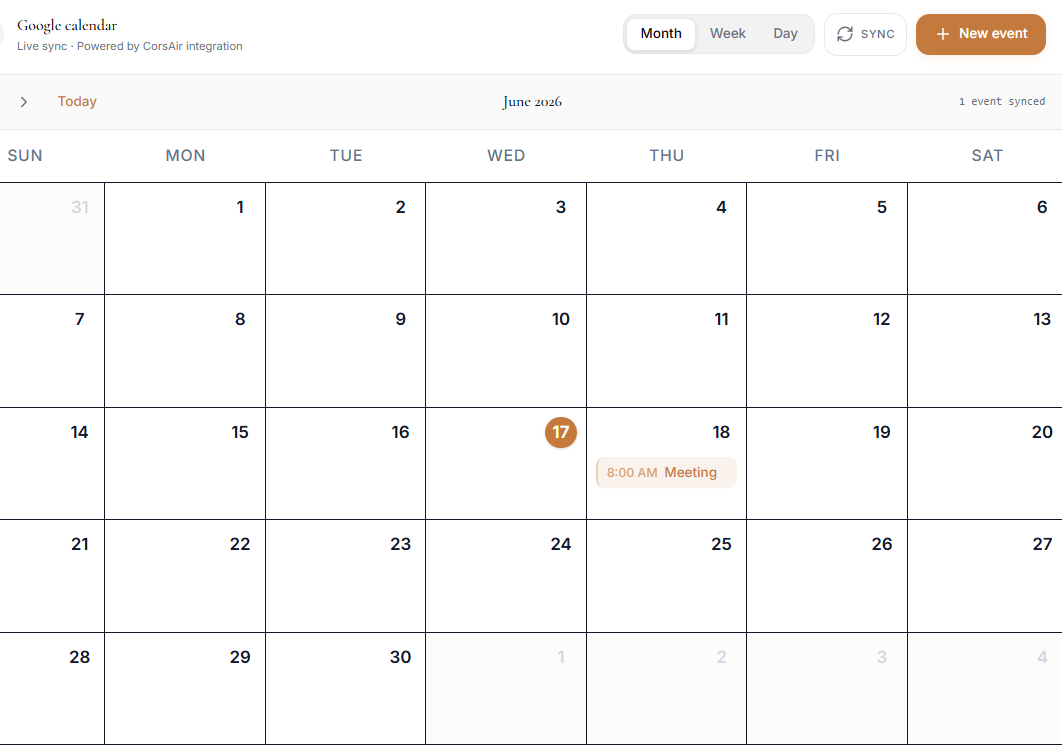
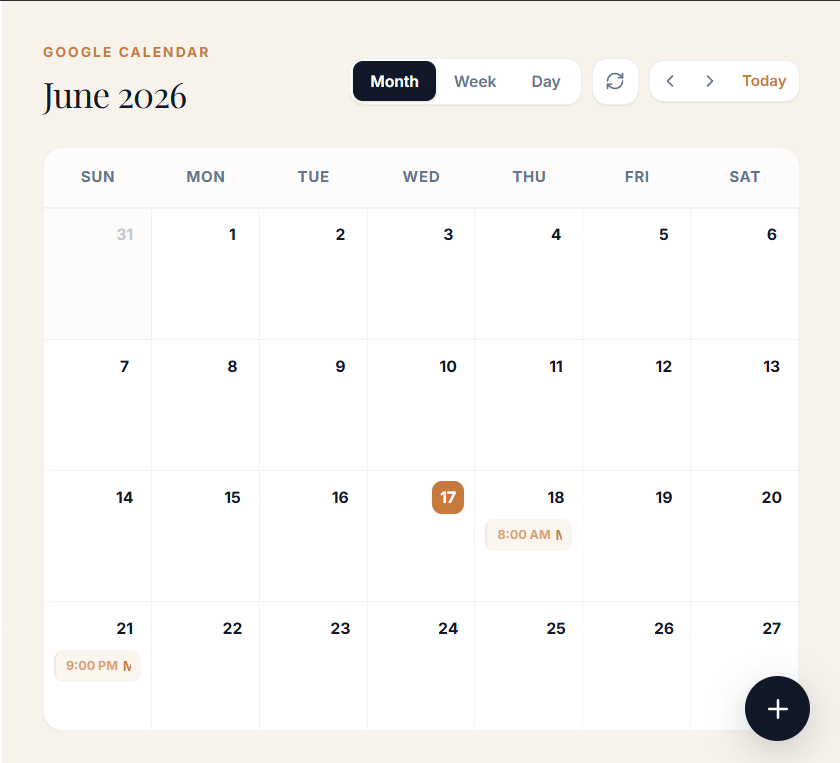
removed unnecessry files

diff --git a/src/components/landing/Footer.tsx b/src/components/landing/Footer.tsx
@@ -57,7 +57,7 @@ export function Footer() {
 
   return (
     <footer className="relative w-full overflow-hidden select-none bg-[#F7F3EC] border-t border-[rgba(17,24,39,0.06)] text-[#111827] font-sans">
-      
+
       {/* ── 1. Subtle Warm Radial Gradient Atmosphere ── */}
       <div className="absolute inset-0 pointer-events-none z-0">
         {/* Soft amber lights */}
@@ -78,10 +78,10 @@ export function Footer() {
       </div>
 
       <div className="relative mx-auto max-w-[1400px] px-6 sm:px-8 md:px-12 z-10">
-        
+
         {/* ── 3. TOP CTA AREA (Centered, Spaced Luxuriously) ── */}
         <div className="pt-[120px] pb-16 flex flex-col items-center text-center">
-          
+
           {/* Centered Small Label */}
           <motion.div
             initial={{ opacity: 0, y: 10 }}
@@ -144,7 +144,7 @@ export function Footer() {
 
         {/* ── 4. FOUR-COLUMN SITE GRID (12 Columns) ── */}
         <div className="grid grid-cols-1 md:grid-cols-12 gap-y-12 md:gap-x-8 pb-16">
-          
+
           {/* Column 1: Brand (Span 4) */}
           <div className="md:col-span-4 space-y-6 text-left">
             <Link href="/" className="font-serif text-[24px] text-[#111827] font-semibold tracking-[-0.02em] hover:opacity-80 transition-opacity">
@@ -170,14 +170,14 @@ export function Footer() {
             <div className="space-y-1 pt-2 text-[13.5px] text-[#64748B]">
               <div className="flex items-center gap-1.5">
                 <span className="font-medium text-[#111827]">Email:</span>
-                <a href="mailto:[email redacted]" className="hover:text-[#C67B3D] hover:underline underline-offset-4 transition-colors">
-                  [email redacted]
+                <a href="mailto:[email redacted]" className="hover:text-[#C67B3D] hover:underline underline-offset-4 transition-colors">
+                  [email redacted]
                 </a>
               </div>
               <div className="flex items-center gap-1.5">
                 <span className="font-medium text-[#111827]">Support:</span>
-                <a href="mailto:[email redacted]" className="hover:text-[#C67B3D] hover:underline underline-offset-4 transition-colors">
-                  [email redacted]
+                <a href="mailto:[email redacted]" className="hover:text-[#C67B3D] hover:underline underline-offset-4 transition-colors">
+                  [email redacted]
                 </a>
               </div>
             </div>
@@ -265,7 +265,7 @@ export function Footer() {
           <div className="text-[13px] text-[#64748B]">
             Follow our journey towards a calmer workspace.
           </div>
-          
+
           <div className="flex gap-4">
             {socials.map((social) => {
               return (
@@ -308,7 +308,7 @@ export function Footer() {
 
         {/* ── 6. BOTTOM BAR (Luxurious whitespace & alignment) ── */}
         <div className="pt-8 pb-[80px] flex flex-col sm:flex-row justify-between items-center gap-6 text-[13.5px] text-[#64748B]">
-          
+
           {/* Left copyright */}
           <div>
             &copy; {currentYear} Zentra. All rights reserved.
@@ -322,7 +322,7 @@ export function Footer() {
           {/* Right version & operational status */}
           <div className="flex items-center gap-5">
             <span>v1.0.0</span>
-            
+
             {/* Pulsing Status Dot */}
             <div className="flex items-center gap-1.5 bg-[#5A6D56]/8 border border-[#5A6D56]/20 px-2.5 py-1 rounded-full text-[11px] font-semibold text-[#5A6D56]">
               <span className="relative flex h-1.5 w-1.5">

diff --git a/src/components/contact/ContactClient.tsx b/src/components/contact/ContactClient.tsx
@@ -49,7 +49,7 @@ export function ContactClient({ user }: ContactClientProps) {
 
       {/* Hero Content */}
       <section className="pt-32 pb-24 px-6 max-w-6xl mx-auto w-full z-10 grid grid-cols-1 lg:grid-cols-12 gap-16 items-start">
-        
+
         {/* Left pane: Details (Span 5) */}
         <div className="lg:col-span-5 space-y-6 text-left">
           <div className="inline-flex items-center gap-1.5 px-3 py-1 rounded-full bg-white border border-[rgba(198,123,61,0.1)] shadow-xs">
@@ -71,7 +71,7 @@ export function ContactClient({ user }: ContactClientProps) {
               </div>
               <div>
                 <p className="font-semibold text-[#111827]">General inquiries</p>
-                <a href="mailto:[email redacted]" className="text-[#64748B] hover:text-[#C67B3D] transition-colors">[email redacted]</a>
+                <a href="mailto:[email redacted]" className="text-[#64748B] hover:text-[#C67B3D] transition-colors">[email redacted]</a>
               </div>
             </div>
 
@@ -81,7 +81,7 @@ export function ContactClient({ user }: ContactClientProps) {
               </div>
               <div>
                 <p className="font-semibold text-[#111827]">Technical Support</p>
-                <a href="mailto:[email redacted]" className="text-[#64748B] hover:text-[#C67B3D] transition-colors">[email redacted]</a>
+                <a href="mailto:[email redacted]" className="text-[#64748B] hover:text-[#C67B3D] transition-colors">[email redacted]</a>
               </div>
             </div>
           </div>
@@ -96,7 +96,7 @@ export function ContactClient({ user }: ContactClientProps) {
           className="lg:col-span-7 p-8 sm:p-10 rounded-[28px] border border-[rgba(198,123,61,0.15)] shadow-[0_20px_50px_rgba(0,0,0,0.04)] text-left w-full"
         >
           <form onSubmit={handleSubmit} className="space-y-6">
-            
+
             {/* Name input */}
             <div className="space-y-2">
               <label className="text-[12px] font-bold text-[#111827] uppercase tracking-wider block">Your Name</label>

diff --git a/src/components/landing/ProductShowcase.tsx b/src/components/landing/ProductShowcase.tsx
@@ -101,7 +101,7 @@ export function ProductShowcase() {
                       </div>
                       <div className="text-left">
                         <p className="text-[12px] font-semibold text-[#111827]">Arghya Halder</p>
-                        <p className="text-[10px] text-[#5F6B7A]">[email redacted]</p>
+                        <p className="text-[10px] text-[#5F6B7A]">[email redacted]</p>
                       </div>
                     </div>
                   </div>
@@ -130,8 +130,8 @@ export function ProductShowcase() {
                             <div
                               key={i}
                               className={`p-3.5 rounded-xl border transition-all cursor-pointer text-left ${msg.unread
-                                  ? "bg-white border-[#C1783F]/20 shadow-sm"
-                                  : "bg-white/40 border-[rgba(17,24,39,0.04)] hover:bg-white"
+                                ? "bg-white border-[#C1783F]/20 shadow-sm"
+                                : "bg-white/40 border-[rgba(17,24,39,0.04)] hover:bg-white"
                                 }`}
                             >
                               <div className="flex justify-between items-start">

diff --git a/app/careers/page.tsx b/app/careers/page.tsx
@@ -71,7 +71,7 @@ export default async function CareersPage() {
                   <h3 className="text-[20px] font-serif font-bold text-[#111827]">{r.title}</h3>
                   <span className="text-[12px] font-bold text-[#C67B3D] uppercase tracking-wider">{r.dept}</span>
                 </div>
-                
+
                 <div className="flex flex-wrap items-center gap-4 text-[12.5px] text-[#64748B] font-medium">
                   <span className="flex items-center gap-1"><MapPin className="w-3.5 h-3.5" />{r.location}</span>
                   <span className="flex items-center gap-1"><Clock className="w-3.5 h-3.5" />{r.type}</span>
@@ -82,7 +82,7 @@ export default async function CareersPage() {
 
               <div className="pt-2">
                 <a
-                  href="mailto:[email redacted]"
+                  href="mailto:[email redacted]"
                   className="inline-flex items-center justify-center bg-[#111827] text-white text-[12.5px] font-bold px-5 py-2.5 rounded-xl hover:bg-[#C67B3D] transition-colors"
                 >
                   Apply to Role

diff --git a/app/privacy/page.tsx b/app/privacy/page.tsx
@@ -74,7 +74,7 @@ export default async function PrivacyPage() {
         <div className="mt-16 space-y-6 text-left max-w-3xl text-[14px] text-[#64748B] leading-relaxed">
           <h3 className="font-serif text-[22px] font-normal text-[#111827]">Compliance & Safety Questions</h3>
           <p>
-            If you have questions regarding database caching structures, vector processing pipelines, or user credential deletions, you can send an inquiry directly to our compliance officers at <a href="mailto:[email redacted]" className="text-[#C67B3D] hover:underline">[email redacted]</a>.
+            If you have questions regarding database caching structures, vector processing pipelines, or user credential deletions, you can send an inquiry directly to our compliance officers at <a href="mailto:[email redacted]" className="text-[#C67B3D] hover:underline">[email redacted]</a>.
           </p>
         </div>
 